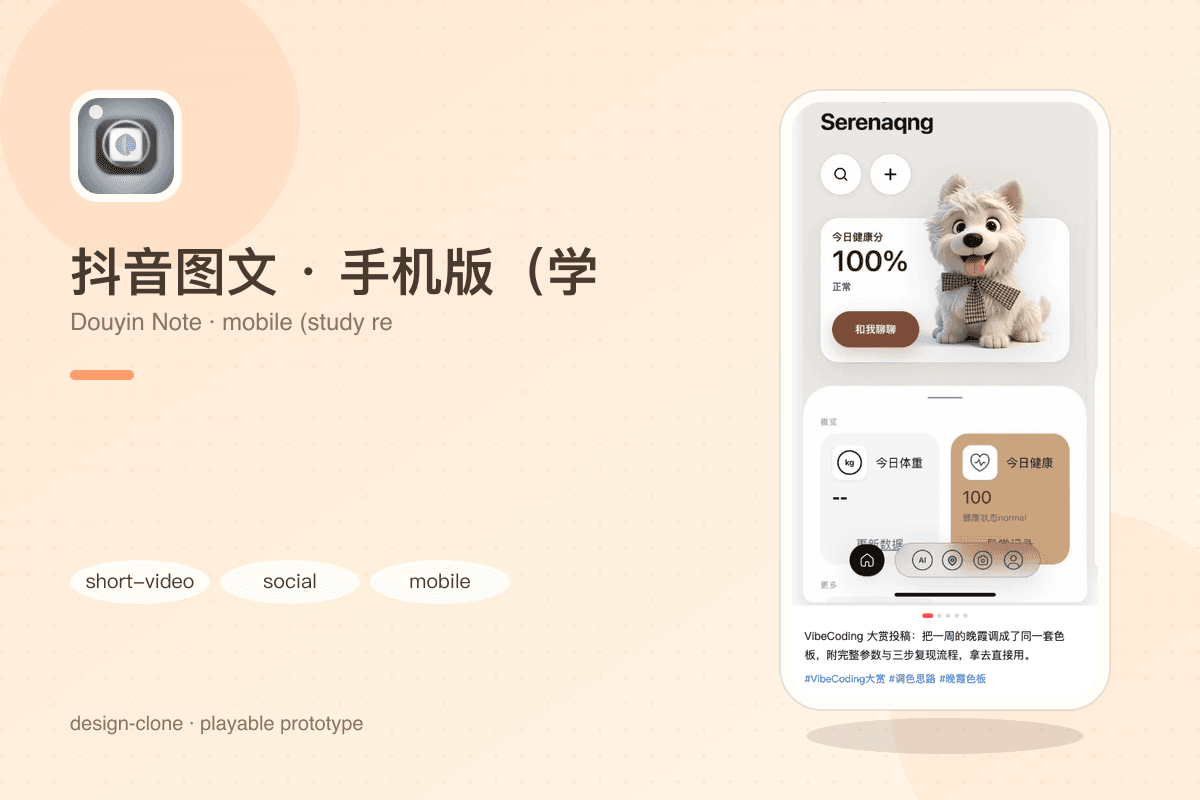
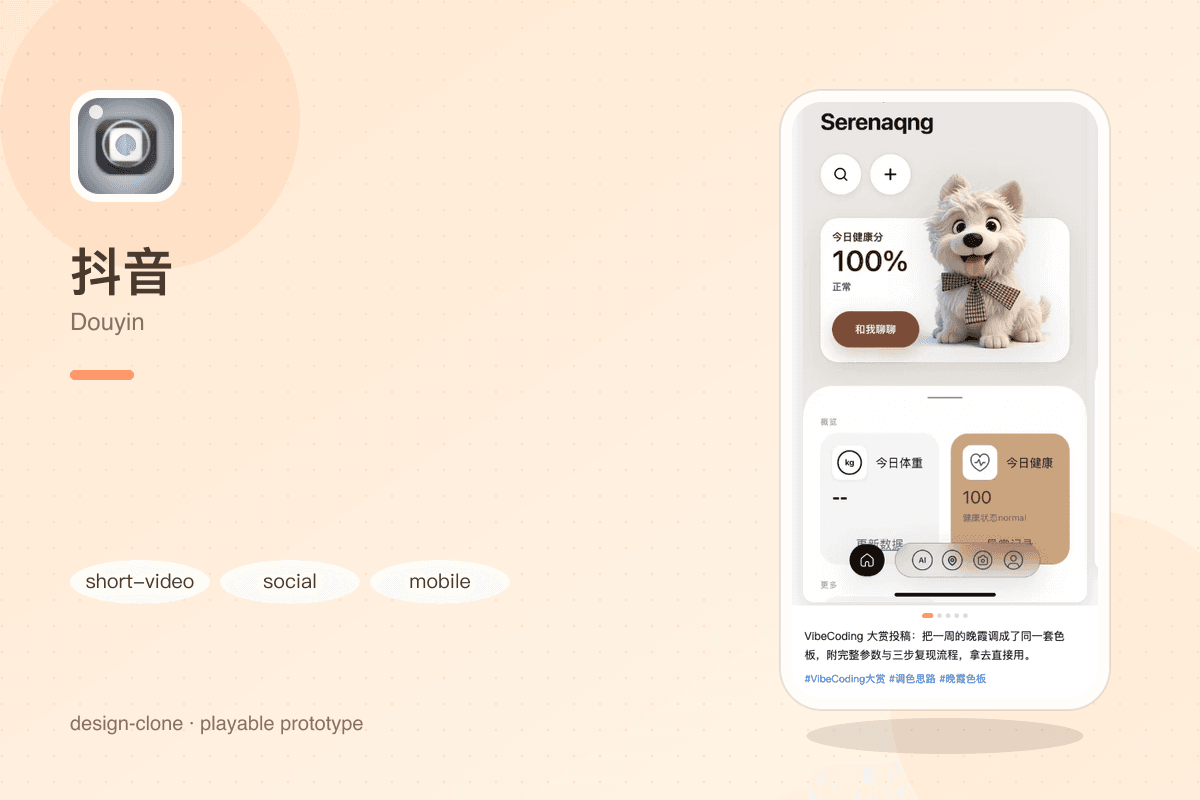
publish(dy-note): Douyin v1.3.0

Changed region(s): [[0.1233, 0.3125, 0.4933, 0.4375], [0.8017, 0.6562, 0.8633, 0.7188], [0.0925, 0.1562, 0.1233, 0.2188]]

diff --git a/dy-note/PROVENANCE.md b/dy-note/PROVENANCE.md
@@ -1,4 +1,4 @@
-# Douyin Note · mobile (study replica) (dy-note/undefined)
+# Douyin (dy-note/undefined)
 
 > Unofficial study replica generated with design-clone. All trademarks and brand assets belong to their respective owners; no affiliation or endorsement implied.
 
@@ -7,4 +7,4 @@
 - gates: interact dead=undefined | inspect fail=undefined pass=undefined | ui-smoke fail=undefined pass=undefined
 
 ## Changes
-- v1.2.0: initial publish
+- v1.3.0: initial publish
